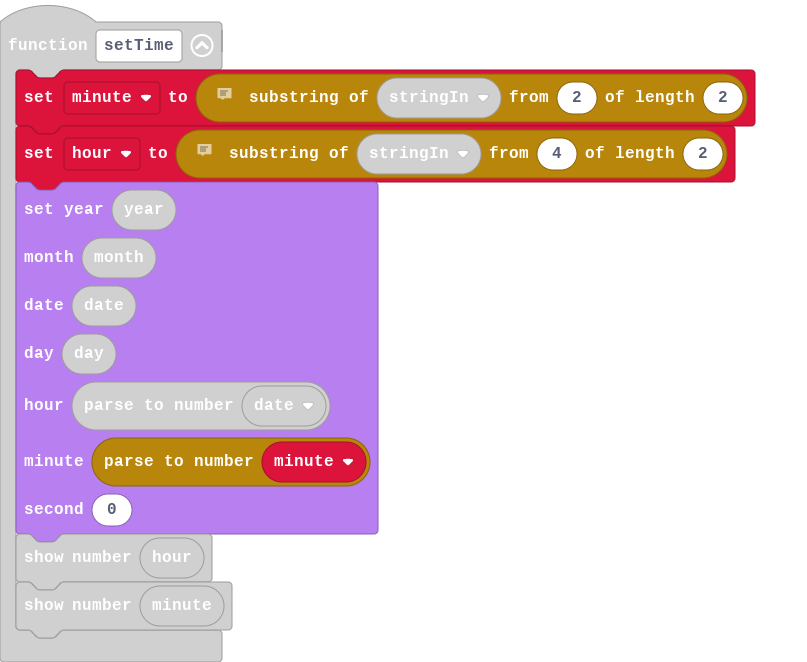
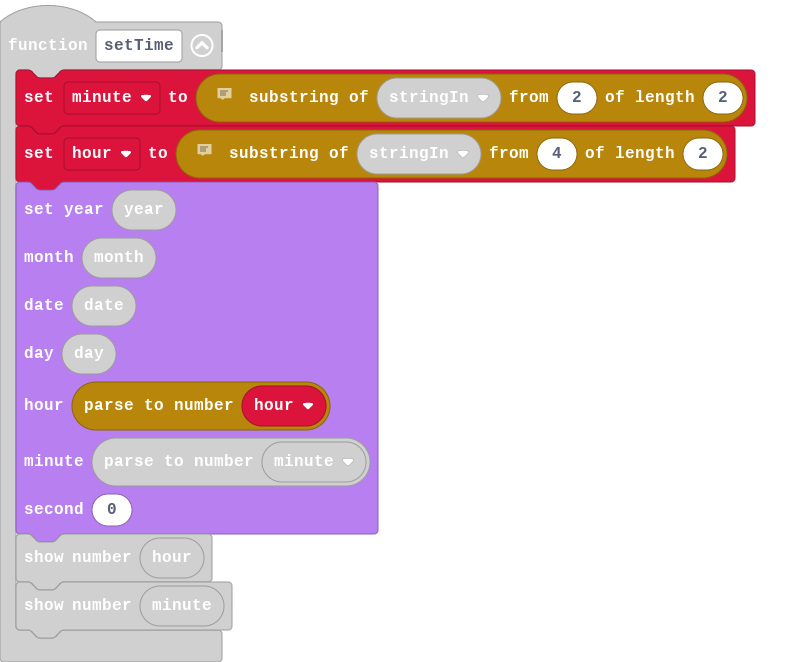
Update main.blocks, main.ts

Changed region(s): [[0.062, 0.574, 0.4647, 0.7553]]

diff --git a/main.ts b/main.ts
@@ -35,7 +35,7 @@ function setTime () {
     DS3231.month(),
     DS3231.date(),
     DS3231.day(),
-    parseFloat(date),
+    parseFloat(hour),
     parseFloat(minute),
     0
     )
